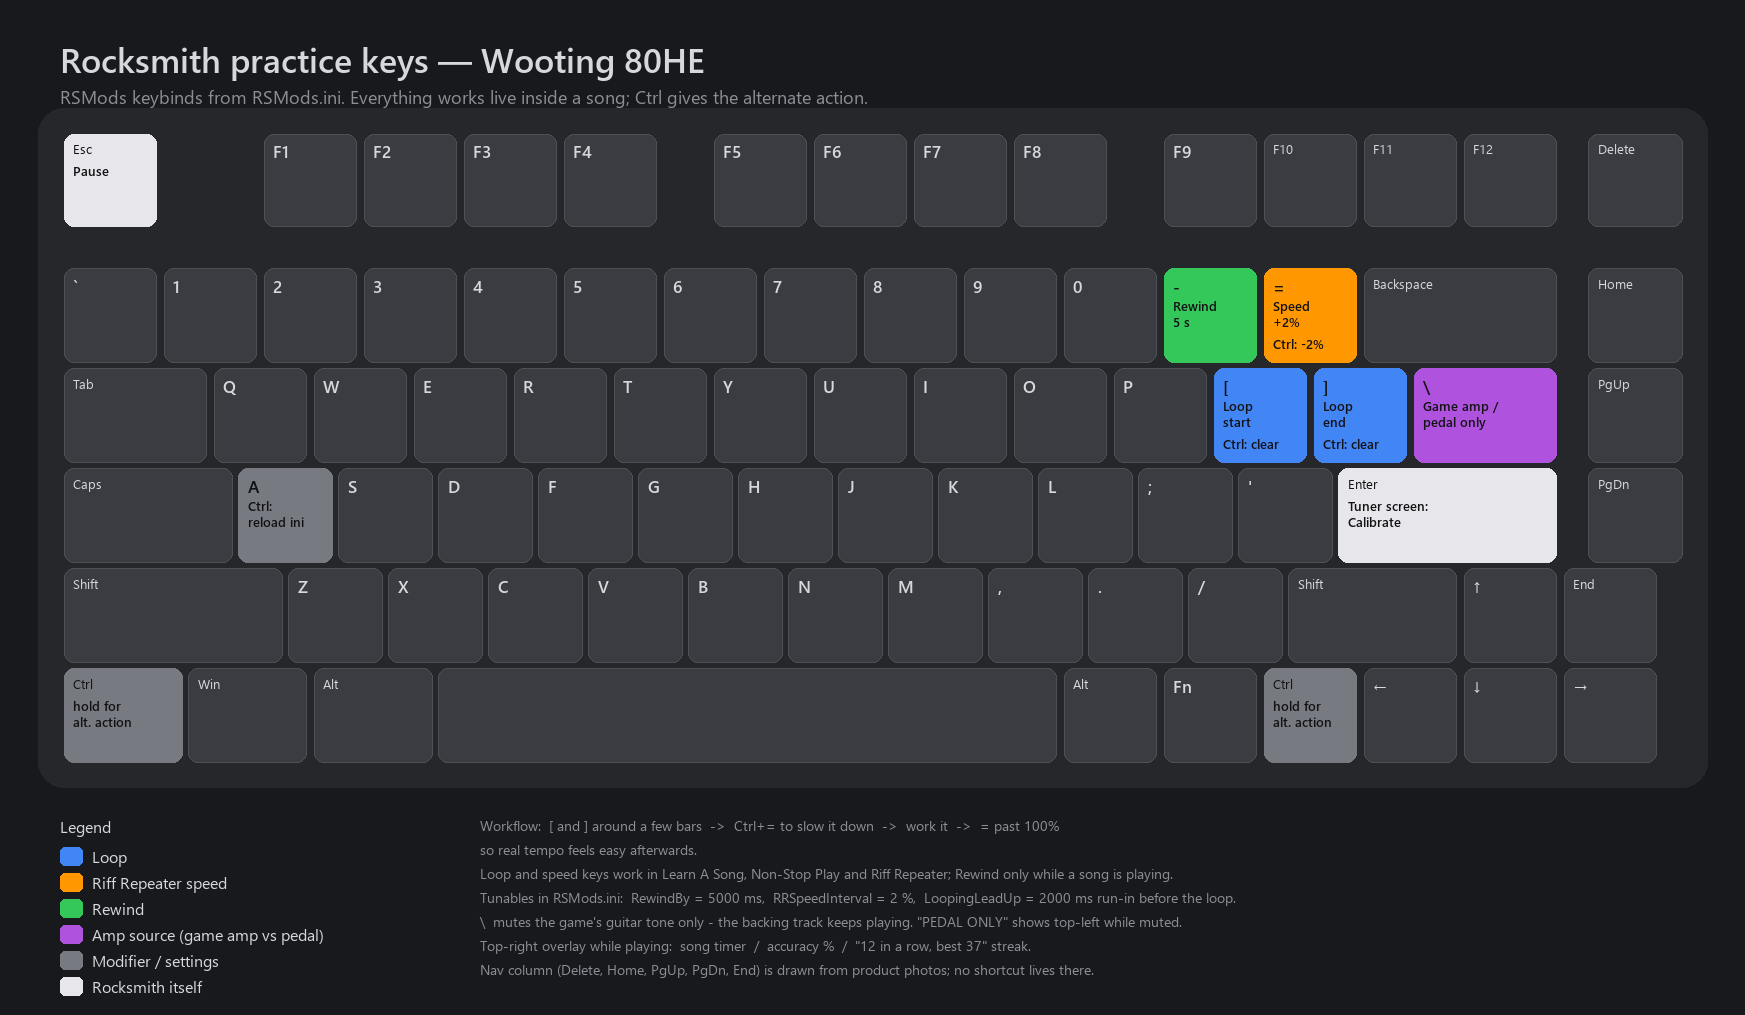
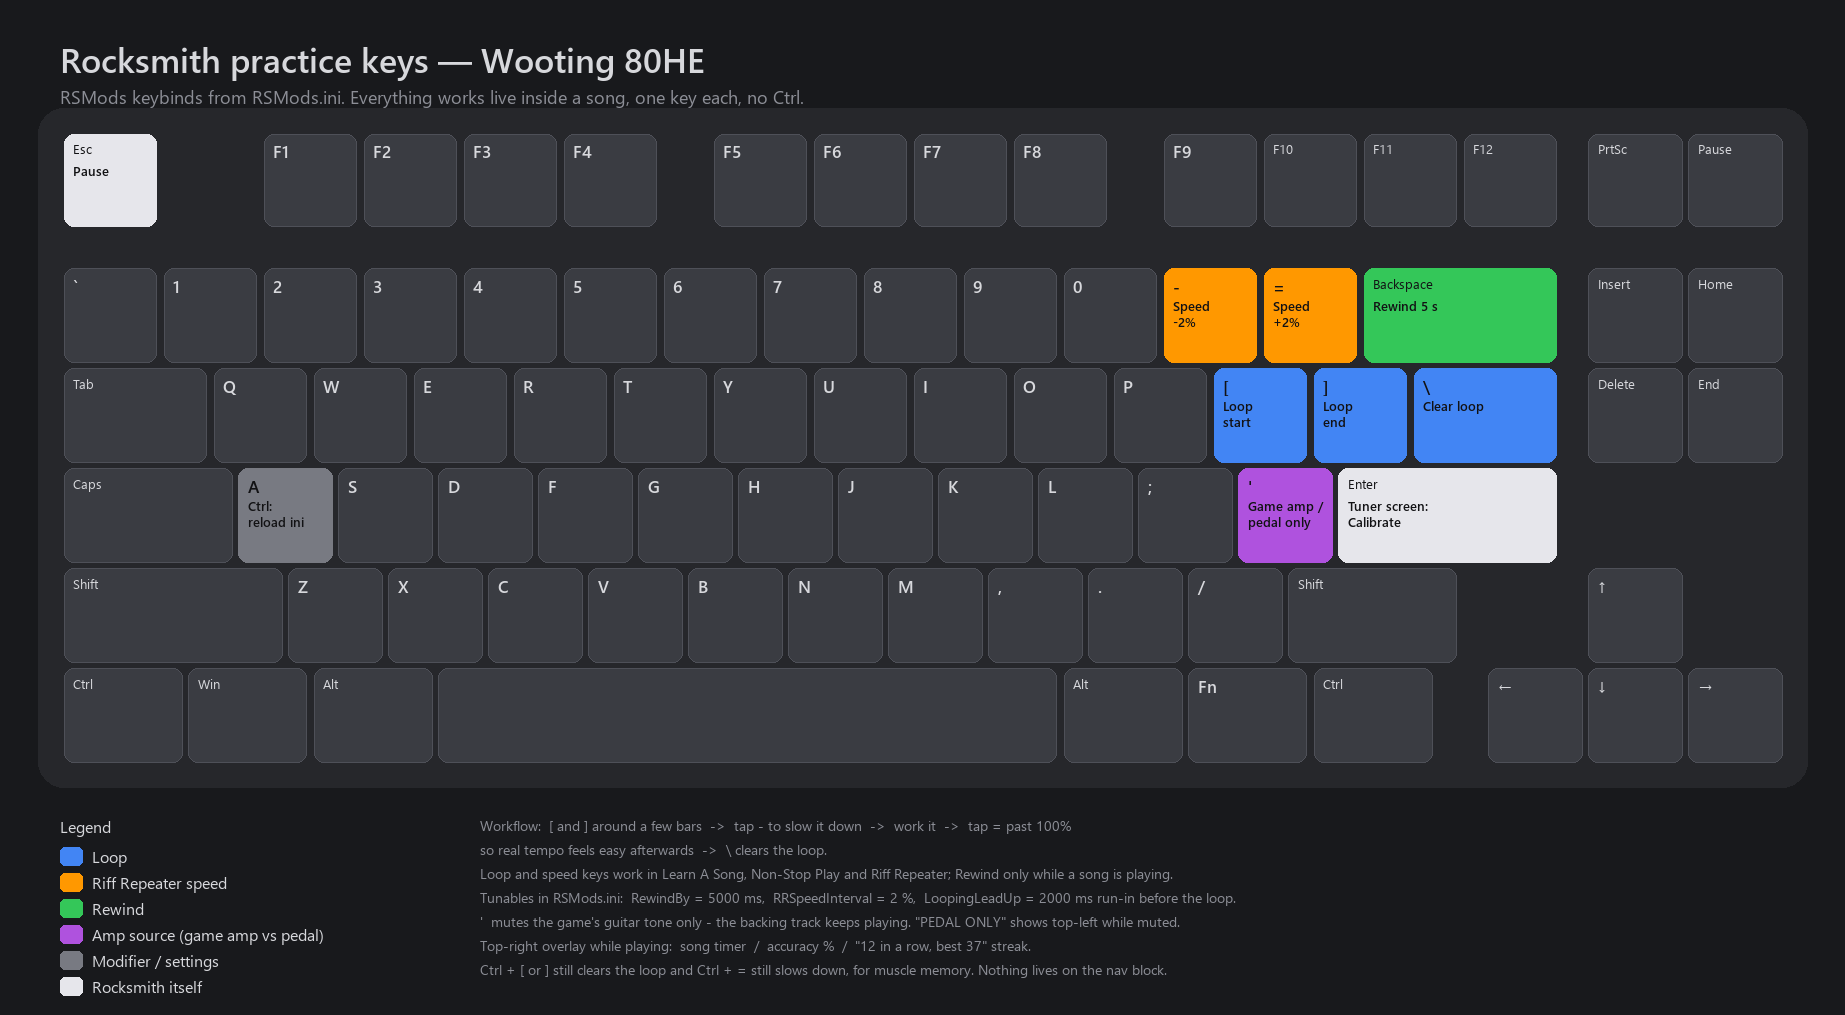
Keys: one-hand cluster with no Ctrl, plus RRSpeedDownKey and LoopClearKey
Slow-down and clear-loop were Ctrl combos on the speed and loop keys. Both
get a key of their own; the Ctrl combos still work. New layout in RSMods.ini
(deployed + snapshot), all in the right-hand block so it is one hand position:

  -  speed down     =  speed up       Backspace  rewind 5 s
  [  loop start     ]  loop end       \          clear loop
  '  game amp / pedal only            Ctrl+A     reload ini

DLL: RRSpeedDownKey joins the RR handler (down on that key or on Ctrl), a
LoopClearKey handler sits ahead of loop start/end in the WM_KEYUP chain,
ToggleAmpSourceKey default moves to VK_OEM_7. Defaults for the two new keys
match the ini so RSMods.exe dropping the lines cannot kill them.

Keymap picture: 80HE layout corrected from the keycap-kit description - 84
keys, condensed 2x3 nav block (PrtSc/Pause on the F-row, Insert/Home,
Delete/End), no PgUp/PgDn, arrows under a 1.75u right Shift. Notes section 0
and README status / rollback / amp section / checklist updated.

diff --git a/docs/keymap-wooting-80he.py b/docs/keymap-wooting-80he.py
@@ -38,32 +38,35 @@ GROUPS = {
 # ---- shortcuts (what gets painted on the keys) ---------------------------------------
 # key label -> (group, primary text, ctrl text)
 SHORTCUTS = {
-    '-':     ('rewind', 'Rewind\n5 s', None),
-    '[':     ('loop',   'Loop\nstart', 'Ctrl: clear'),
-    ']':     ('loop',   'Loop\nend',   'Ctrl: clear'),
-    '=':     ('speed',  'Speed\n+2%',  'Ctrl: -2%'),
-    '\\':    ('amp',    'Game amp /\npedal only', None),
-    'A':     ('mod',    None,         'Ctrl:\nreload ini'),
-    'Ctrl':  ('mod',    'hold for\nalt. action', None),
-    'Esc':   ('game',   'Pause', None),
-    'Enter': ('game',   'Tuner screen:\nCalibrate', None),
+    '-':         ('speed',  'Speed\n-2%', None),
+    '=':         ('speed',  'Speed\n+2%', None),
+    'Backspace': ('rewind', 'Rewind 5 s', None),
+    '[':         ('loop',   'Loop\nstart', None),
+    ']':         ('loop',   'Loop\nend', None),
+    '\\':        ('loop',   'Clear loop', None),
+    "'":         ('amp',    'Game amp /\npedal only', None),
+    'A':         ('mod',    None,         'Ctrl:\nreload ini'),
+    'Esc':       ('game',   'Pause', None),
+    'Enter':     ('game',   'Tuner screen:\nCalibrate', None),
 }
 
 # ---- Wooting 80HE ANSI layout: rows of (label, width_u, x_offset_u_before) ------------
-# Nav column is drawn from product photos; none of the shortcuts live there.
+# 84 keys. The TKL nav cluster is condensed to a 2x3 block: PrtSc / Pause on the F-row,
+# Insert / Home and Delete / End under them. There are NO PgUp / PgDn keys (Fn layer).
+# Arrows sit in the usual spot but pulled in under a 1.75u right Shift.
 ROWS = [
     [('Esc',1,0),('F1',1,1),('F2',1,0),('F3',1,0),('F4',1,0),('F5',1,.5),('F6',1,0),('F7',1,0),('F8',1,0),
-     ('F9',1,.5),('F10',1,0),('F11',1,0),('F12',1,0),('Delete',1,.25)],
+     ('F9',1,.5),('F10',1,0),('F11',1,0),('F12',1,0),('PrtSc',1,.25),('Pause',1,0)],
     [('`',1,0),('1',1,0),('2',1,0),('3',1,0),('4',1,0),('5',1,0),('6',1,0),('7',1,0),('8',1,0),('9',1,0),('0',1,0),
-     ('-',1,0),('=',1,0),('Backspace',2,0),('Home',1,.25)],
+     ('-',1,0),('=',1,0),('Backspace',2,0),('Insert',1,.25),('Home',1,0)],
     [('Tab',1.5,0),('Q',1,0),('W',1,0),('E',1,0),('R',1,0),('T',1,0),('Y',1,0),('U',1,0),('I',1,0),('O',1,0),('P',1,0),
-     ('[',1,0),(']',1,0),('\\',1.5,0),('PgUp',1,.25)],
+     ('[',1,0),(']',1,0),('\\',1.5,0),('Delete',1,.25),('End',1,0)],
     [('Caps',1.75,0),('A',1,0),('S',1,0),('D',1,0),('F',1,0),('G',1,0),('H',1,0),('J',1,0),('K',1,0),('L',1,0),(';',1,0),
-     ("'",1,0),('Enter',2.25,0),('PgDn',1,.25)],
+     ("'",1,0),('Enter',2.25,0)],
     [('Shift',2.25,0),('Z',1,0),('X',1,0),('C',1,0),('V',1,0),('B',1,0),('N',1,0),('M',1,0),(',',1,0),('.',1,0),('/',1,0),
-     ('Shift',1.75,0),('\u2191',1,0),('End',1,0)],
-    [('Ctrl',1.25,0),('Win',1.25,0),('Alt',1.25,0),('',6.25,0),('Alt',1,0),('Fn',1,0),('Ctrl',1,0),
-     ('\u2190',1,0),('\u2193',1,0),('\u2192',1,0)],
+     ('Shift',1.75,0),('\u2191',1,1.25)],
+    [('Ctrl',1.25,0),('Win',1.25,0),('Alt',1.25,0),('',6.25,0),('Alt',1.25,0),('Fn',1.25,0),('Ctrl',1.25,0),
+     ('\u2190',1,.5),('\u2193',1,0),('\u2192',1,0)],
 ]
 
 def font(size, bold=False):
@@ -81,7 +84,7 @@ F_SHORT = font(13, True)
 F_LEG   = font(16)
 F_NOTE  = font(14)
 
-board_w = 16.25 * U
+board_w = 17.25 * U
 board_h = (6 + FROW_GAP) * U
 W = int(X0 * 2 + board_w)
 H = int(Y0 + board_h + 250)
@@ -90,7 +93,7 @@ d = ImageDraw.Draw(img)
 
 # title
 d.text((X0, 36), 'Rocksmith practice keys \u2014 Wooting 80HE', font=F_TITLE, fill=TEXT)
-d.text((X0, 84), 'RSMods keybinds from RSMods.ini. Everything works live inside a song; Ctrl gives the alternate action.',
+d.text((X0, 84), 'RSMods keybinds from RSMods.ini. Everything works live inside a song, one key each, no Ctrl.',
        font=F_SUB, fill=TEXT_DIM)
 
 # case
@@ -138,13 +141,13 @@ for name in ('loop', 'speed', 'rewind', 'amp', 'mod', 'game'):
 nx = X0 + 420
 ny = Y0 + board_h + 50
 notes = [
-    'Workflow:  [ and ] around a few bars  ->  Ctrl+= to slow it down  ->  work it  ->  = past 100%',
-    'so real tempo feels easy afterwards.',
+    'Workflow:  [ and ] around a few bars  ->  tap - to slow it down  ->  work it  ->  tap = past 100%',
+    'so real tempo feels easy afterwards  ->  \\ clears the loop.',
     'Loop and speed keys work in Learn A Song, Non-Stop Play and Riff Repeater; Rewind only while a song is playing.',
     'Tunables in RSMods.ini:  RewindBy = 5000 ms,  RRSpeedInterval = 2 %,  LoopingLeadUp = 2000 ms run-in before the loop.',
-    '\\  mutes the game\'s guitar tone only - the backing track keeps playing. "PEDAL ONLY" shows top-left while muted.',
+    '\'  mutes the game\'s guitar tone only - the backing track keeps playing. "PEDAL ONLY" shows top-left while muted.',
     'Top-right overlay while playing:  song timer  /  accuracy %  /  "12 in a row, best 37" streak.',
-    'Nav column (Delete, Home, PgUp, PgDn, End) is drawn from product photos; no shortcut lives there.',
+    'Ctrl + [ or ] still clears the loop and Ctrl + = still slows down, for muscle memory. Nothing lives on the nav block.',
 ]
 for t in notes:
     d.text((nx, ny), t, font=F_NOTE, fill=TEXT_DIM)

diff --git a/RSMods-src/DLL/Settings.cpp b/RSMods-src/DLL/Settings.cpp
@@ -17,11 +17,13 @@ void Settings::Initialize()
 		{"RainbowNotesKey", "N"},
 		{"RemoveLyricsKey", "L"},
 		{"RRSpeedKey", "R"},
+		{"RRSpeedDownKey", "VK_OEM_MINUS"},
 		{"MenuToggleKey", "M"},
 		{"TuningOffsetKey", "O"},
 		{"ToggleExtendedRangeKey", "E"},
 		{"LoopStartKey", "Y"},
 		{"LoopEndKey", "U"},
+		{"LoopClearKey", "VK_OEM_5"},
 		{"RewindKey", "Z"},
 
 		{"MasterVolumeKey", "5"},
@@ -34,7 +36,7 @@ void Settings::Initialize()
 		{"DisplayMixerKey", "P"},
 		{"MutePlayer1Key", "X"},
 		{"MutePlayer2Key", "C"},
-		{"ToggleAmpSourceKey", "VK_OEM_5"},
+		{"ToggleAmpSourceKey", "VK_OEM_7"},
 
 		{"ForceReEnumerationEnabled", "automatic"},
 
@@ -186,10 +188,12 @@ void Settings::ReadKeyBinds() {
 			{ "RainbowNotesKey", reader.GetValue("Keybinds", "RainbowNotesKey", "N")},
 			{ "RemoveLyricsKey", reader.GetValue("Keybinds", "RemoveLyricsKey", "L")},
 			{ "RRSpeedKey", reader.GetValue("Keybinds", "RRSpeedKey", "R")},
+			{ "RRSpeedDownKey", reader.GetValue("Keybinds", "RRSpeedDownKey", "VK_OEM_MINUS")},
 			{ "TuningOffsetKey", reader.GetValue("Keybinds", "TuningOffsetKey", "O")},
 			{ "ToggleExtendedRangeKey", reader.GetValue("Keybinds", "ToggleExtendedRangeKey", "E")},
 			{ "LoopStartKey", reader.GetValue("Keybinds", "LoopStartKey", "Y")},
 			{ "LoopEndKey", reader.GetValue("Keybinds", "LoopEndKey", "U")},
+			{ "LoopClearKey", reader.GetValue("Keybinds", "LoopClearKey", "VK_OEM_5")},
 			{ "RewindKey", reader.GetValue("Keybinds", "RewindKey", "Z")},
 
 			{ "MasterVolumeKey", reader.GetValue("Audio Keybindings", "MasterVolumeKey", "5") },
@@ -202,7 +206,7 @@ void Settings::ReadKeyBinds() {
 			{ "DisplayMixerKey", reader.GetValue("Audio Keybindings", "DisplayMixerKey", "P") },
 			{ "MutePlayer1Key", reader.GetValue("Audio Keybindings", "MutePlayer1Key", "X")},
 			{ "MutePlayer2Key", reader.GetValue("Audio Keybindings", "MutePlayer2Key", "C")},
-			{ "ToggleAmpSourceKey", reader.GetValue("Audio Keybindings", "ToggleAmpSourceKey", "VK_OEM_5")}
+			{ "ToggleAmpSourceKey", reader.GetValue("Audio Keybindings", "ToggleAmpSourceKey", "VK_OEM_7")}
 	};
 	// _LOG("Read " << modSettings["ToggleLoftKey"] << std::endl);
 }

diff --git a/RSMods-src/DLL/dllmain.cpp b/RSMods-src/DLL/dllmain.cpp
@@ -266,6 +266,13 @@ LRESULT WINAPI WndProc(HWND hWnd, UINT msg, WPARAM keyPressed, LPARAM lParam) {
 				_LOG("Triggered Mod: Toggle Extended Range" << std::endl);
 			}
 
+			// Looping mod. Clear the loop with a key of its own. Ctrl + start / end below still clears too.
+			else if (keyPressed == Settings::GetKeyBind("LoopClearKey") && Settings::ReturnSettingValue("AllowLooping") == "on" && MemHelpers::Contains(D3DHooks::currentMenu, fastRRModes)) {
+				loopStart = NULL;
+				loopEnd = NULL;
+				_LOG("(LOOP) Cleared" << std::endl);
+			}
+
 			// Looping mod. Set loop starting point.
 			else if (keyPressed == Settings::GetKeyBind("LoopStartKey") && Settings::ReturnSettingValue("AllowLooping") == "on" && MemHelpers::Contains(D3DHooks::currentMenu, fastRRModes)) {
 				if (GetKeyState(VK_CONTROL) & 0x8000) { // Is Control Pressed.
@@ -395,13 +402,13 @@ LRESULT WINAPI WndProc(HWND hWnd, UINT msg, WPARAM keyPressed, LPARAM lParam) {
 		// Game must not be on the startup videos or it might crash
 		if (D3DHooks::GameLoaded) { 
 			// Riff Repeater > 100% mod.
-			if (keyPressed == Settings::GetKeyBind("RRSpeedKey") && Settings::ReturnSettingValue("RRSpeedAboveOneHundred") == "on" && (MemHelpers::Contains(D3DHooks::currentMenu, fastRRModes)) && RiffRepeater::loggedCurrentSongID) {
+			if ((keyPressed == Settings::GetKeyBind("RRSpeedKey") || keyPressed == Settings::GetKeyBind("RRSpeedDownKey")) && Settings::ReturnSettingValue("RRSpeedAboveOneHundred") == "on" && (MemHelpers::Contains(D3DHooks::currentMenu, fastRRModes)) && RiffRepeater::loggedCurrentSongID) {
 				
 				// Get the current speed of Riff Repeater.
 				realSongSpeed = RiffRepeater::GetSpeed(true);
 
-				// Add / Subtract User specified Interval
-				if (GetKeyState(VK_CONTROL) & 0x8000)
+				// Add / Subtract User specified Interval. Slow down on the dedicated key, or on Ctrl + the speed key.
+				if (keyPressed == Settings::GetKeyBind("RRSpeedDownKey") || (GetKeyState(VK_CONTROL) & 0x8000))
 					realSongSpeed -= (float)Settings::GetModSetting("RRSpeedInterval");
 				else
 					realSongSpeed += (float)Settings::GetModSetting("RRSpeedInterval");

diff --git a/README.md b/README.md
@@ -14,10 +14,10 @@ truth for everything hand-made; the game folder is where it gets deployed.
 
 | Thing | State | Since |
 |---|---|---|
-| `Y:\...\xinput1_3.dll` | streak-overlay build, SHA-256 `ac288994 b0fcacd9 674c494f 575c2678 b453a555 c3b9715b e83be6cc 6b825e4e` | 11 Sep 23:16 |
+| `Y:\...\xinput1_3.dll` | no-Ctrl keys build, SHA-256 `2c2a5aa4 008380b6 37a08fc2 5f3939cb da13c6b5 7193c0ce cfd007f2 48b57d69` | 12 Sep |
 | RS_ASIO v0.7.5 | `avrt.dll` + `RS_ASIO.dll` + `RS_ASIO.ini` in the game folder; input `NUX Audio` ch 0, output WASAPI, **64-sample buffer** | 11 Sep |
 | `Rocksmith.ini` | `LatencyBuffer=2` (was 4); everything else as before | 11 Sep |
-| `RSMods.ini` | `ToggleAmpSourceKey = VK_OEM_5`, `DisplayCurrentAccuracy = on`, `DisplayNoteStreak = on` added; nothing removed | 11 Sep |
+| `RSMods.ini` | keys re-mapped to one cluster, no Ctrl: `RRSpeedDownKey`, `LoopClearKey` added, `RewindKey = VK_BACK`, `ToggleAmpSourceKey = VK_OEM_7`; plus `DisplayCurrentAccuracy = on`, `DisplayNoteStreak = on`; nothing removed | 12 Sep |
 | In-game calibration | redone on the ASIO input path, on the usual NUX preset | 11 Sep |
 | Windows default input | still the webcam — **irrelevant now**, RS_ASIO binds the NUX by name | — |
 
@@ -49,7 +49,7 @@ open); the ini files can be edited any time and are read at launch.
 | crackle / dropouts / stutter in the guitar sound | step 1 |
 | spike only at the start of each note, then fine | not a rollback — recalibrate (tuner screen on the way into a song, lower-right, Enter) |
 | game says no cable / notes don't register | step 2 |
-| no guitar at all in `GAME AMP`, `PEDAL ONLY` on screen | press `\` — you are muted on purpose |
+| no guitar at all in `GAME AMP`, `PEDAL ONLY` on screen | press `'` — you are muted on purpose |
 | crash, white screen, hang, anything about the overlay text | step 3 |
 | the two new `RSMods.ini` lines bother you | step 4 |
 
@@ -84,7 +84,8 @@ Or step back one build at a time by copying a backup over `Y:\...\xinput1_3.dll`
 | `20260911-212341` | `6e64077` (`f5a2abd2…`) | + amp-source toggle |
 | `20260911-223104` | `c0ec81f` (`bb0454c8…`) | + mute logging / never-restore-to-0 guard |
 | `20260911-231651` | `1055e23` (`ab7e5eec…`) | + accuracy overlay |
-| *(installed)* | streak commit (`ac288994…`) | + note streak line |
+| `20260912-*` | `95e1650` (`ac288994…`) | + note streak line |
+| *(installed)* | no-Ctrl keys commit | + `RRSpeedDownKey`, `LoopClearKey` |
 
 `backups/` is untracked — do not delete it. Any build can also be rebuilt from its commit
 with `git checkout <hash> -- RSMods-src && scripts\build-dll.ps1`.
@@ -93,10 +94,12 @@ Verify with `Get-FileHash 'Y:\Rocksmith 2014 Edition - Remastered\xinput1_3.dll'
 
 **Step 4 — `RSMods.ini` lines**
 
-`ToggleAmpSourceKey`, `DisplayCurrentAccuracy` and `DisplayNoteStreak` can simply be deleted.
-Note all three have DLL-side defaults (`VK_OEM_5`, `on`, `on`), so deleting the line does not
-turn the feature off — set `DisplayCurrentAccuracy = off`, `DisplayNoteStreak = off`, or
-`ToggleAmpSourceKey = ` (blank) for that.
+`ToggleAmpSourceKey`, `RRSpeedDownKey`, `LoopClearKey`, `DisplayCurrentAccuracy` and
+`DisplayNoteStreak` can simply be deleted. All have DLL-side defaults (`VK_OEM_7`,
+`VK_OEM_MINUS`, `VK_OEM_5`, `on`, `on`), so deleting the line does not turn the feature off —
+set the `Display*` ones to `off`, or a key to blank (`LoopClearKey = `), for that. To get
+the old Ctrl-only layout back: `RewindKey = VK_OEM_MINUS`, `ToggleAmpSourceKey = VK_OEM_5`,
+blank the two new keys.
 
 **Calibration** lives in the game profile and cannot be "reverted"; just run it again.
 
@@ -144,6 +147,8 @@ Do these in order. Tick them off here as they pass.
 - [ ] **Streak line** — under the accuracy %: `12 in a row, best 37` counting up as you hit,
       flipping to `missed 3, best 37` on a dropped run, back to `0 in a row` on the next hit.
       Best should match the review screen's longest streak.
+- [ ] **No-Ctrl keys** — `-` slows, `\` clears the loop, `Backspace` rewinds, `'` toggles the
+      amp; the old `Ctrl` combos still work
 - [ ] A normal practice session — loops (`[` `]`), rewind (`-`), RR speed (`=`) all
       still behave as in `ROCKSMITH-PROJECT-NOTES.md` §0
 
@@ -170,7 +175,7 @@ is its own commit, so a failing one can be reverted individually with
 | `config/` | Snapshots of the deployed `RSMods.ini`, `Rocksmith.ini`, `steam_emu.ini` |
 | `backups/` | DLL backups made by `install-dll.ps1` — **untracked, do not delete** |
 | `ROCKSMITH-PROJECT-NOTES.md` | Full setup and troubleshooting history |
-| `docs/keymap-wooting-80he.png` | Picture of every practice key on the Wooting 80HE; `docs/keymap-wooting-80he.py` regenerates it after a keybind change |
+| `docs/keymap-wooting-80he.png` | Picture of every practice key on the Wooting 80HE; `docs/keymap-wooting-80he.py` regenerates it after a keybind change. The key list itself is `ROCKSMITH-PROJECT-NOTES.md` §0 |
 
 Every commit is authored `arpan2711 <arpan.uon@gmail.com>`; git identity is set
 locally in this repo as well as globally.
@@ -248,15 +253,15 @@ it may drop this hand-added key; re-add it after using the GUI.**
 
 ---
 
-## Amp source toggle — the `\` key
+## Amp source toggle — the `'` key
 
 One key flips between hearing Rocksmith's virtual amp and hearing only your own
-pedalboard. Default bind is `\` (`VK_OEM_5`), which sits next to the loop keys
-`[` `]` so it is reachable without looking.
+pedalboard. Bound to `'` (`VK_OEM_7`), in the same right-hand cluster as the loop and
+speed keys so it is reachable without looking. (Was `\` until 12 Sep; `\` is now clear-loop.)
 
 ```ini
 [Audio Keybindings]
-ToggleAmpSourceKey = VK_OEM_5
+ToggleAmpSourceKey = VK_OEM_7
 ```
 
 **What it does:** mutes and unmutes the Wwise RTPC `Mixer_Player1` — the game's

diff --git a/ROCKSMITH-PROJECT-NOTES.md b/ROCKSMITH-PROJECT-NOTES.md
@@ -11,17 +11,24 @@ custom songs working, minimal game fluff.
 
 All of these work **live, inside a song**. No menus.
 
+One key each, no modifiers, all in the right-hand cluster of the main block (re-mapped
+12 Sep 2026; picture in `docs/keymap-wooting-80he.png`):
+
 | Key | Does |
 |---|---|
-| `-` | **Rewind 5 seconds** instantly |
+| `Backspace` | **Rewind 5 seconds** instantly |
 | `[` | Set **loop start** |
 | `]` | Set **loop end** — the section then repeats forever |
-| `Ctrl` + `[` / `]` | **Clear** the loop |
+| `\` | **Clear** the loop |
 | `=` | Riff Repeater speed **up** (2% per press) |
-| `Ctrl` + `=` | Riff Repeater speed **down** |
+| `-` | Riff Repeater speed **down** |
+| `'` | **Game amp ↔ pedal only** (mutes the game's guitar tone; backing track keeps going) |
+| `Ctrl` + `A` | Reload `RSMods.ini` without restarting |
 
-Workflow: drop `[` and `]` around a few bars, slow it with `Ctrl`+`=`, work the passage,
-then push past 100% with `=` so real tempo feels easy afterwards.
+`Ctrl`+`[`/`]` (clear) and `Ctrl`+`=` (slow down) still work as before, for muscle memory.
+
+Workflow: drop `[` and `]` around a few bars, tap `-` to slow it down, work the passage,
+then tap `=` past 100% so real tempo feels easy afterwards; `\` clears the loop.
 
 **Tunable in `RSMods.ini`:**
 
@@ -34,8 +41,9 @@ then push past 100% with `=` so real tempo feels easy afterwards.
 
 Keys are set with `VK_` names (`LoopStartKey = VK_OEM_4` etc). Valid names live in
 `DLL/Settings.hpp` → `keyMap`. **An unrecognised name binds silently to nothing**, so
-check the table rather than guessing. `[`=`VK_OEM_4`, `]`=`VK_OEM_6`, `=`=`VK_OEM_PLUS`,
-`-`=`VK_OEM_MINUS`. Function keys `VK_F1`–`VK_F24` all exist.
+check the table rather than guessing. `[`=`VK_OEM_4`, `]`=`VK_OEM_6`, `\`=`VK_OEM_5`,
+`'`=`VK_OEM_7`, `=`=`VK_OEM_PLUS`, `-`=`VK_OEM_MINUS`, `Backspace`=`VK_BACK`. Function keys
+`VK_F1`–`VK_F24` all exist.
 
 Backup before these were set: `RSMods.ini.before-practice`.
 
